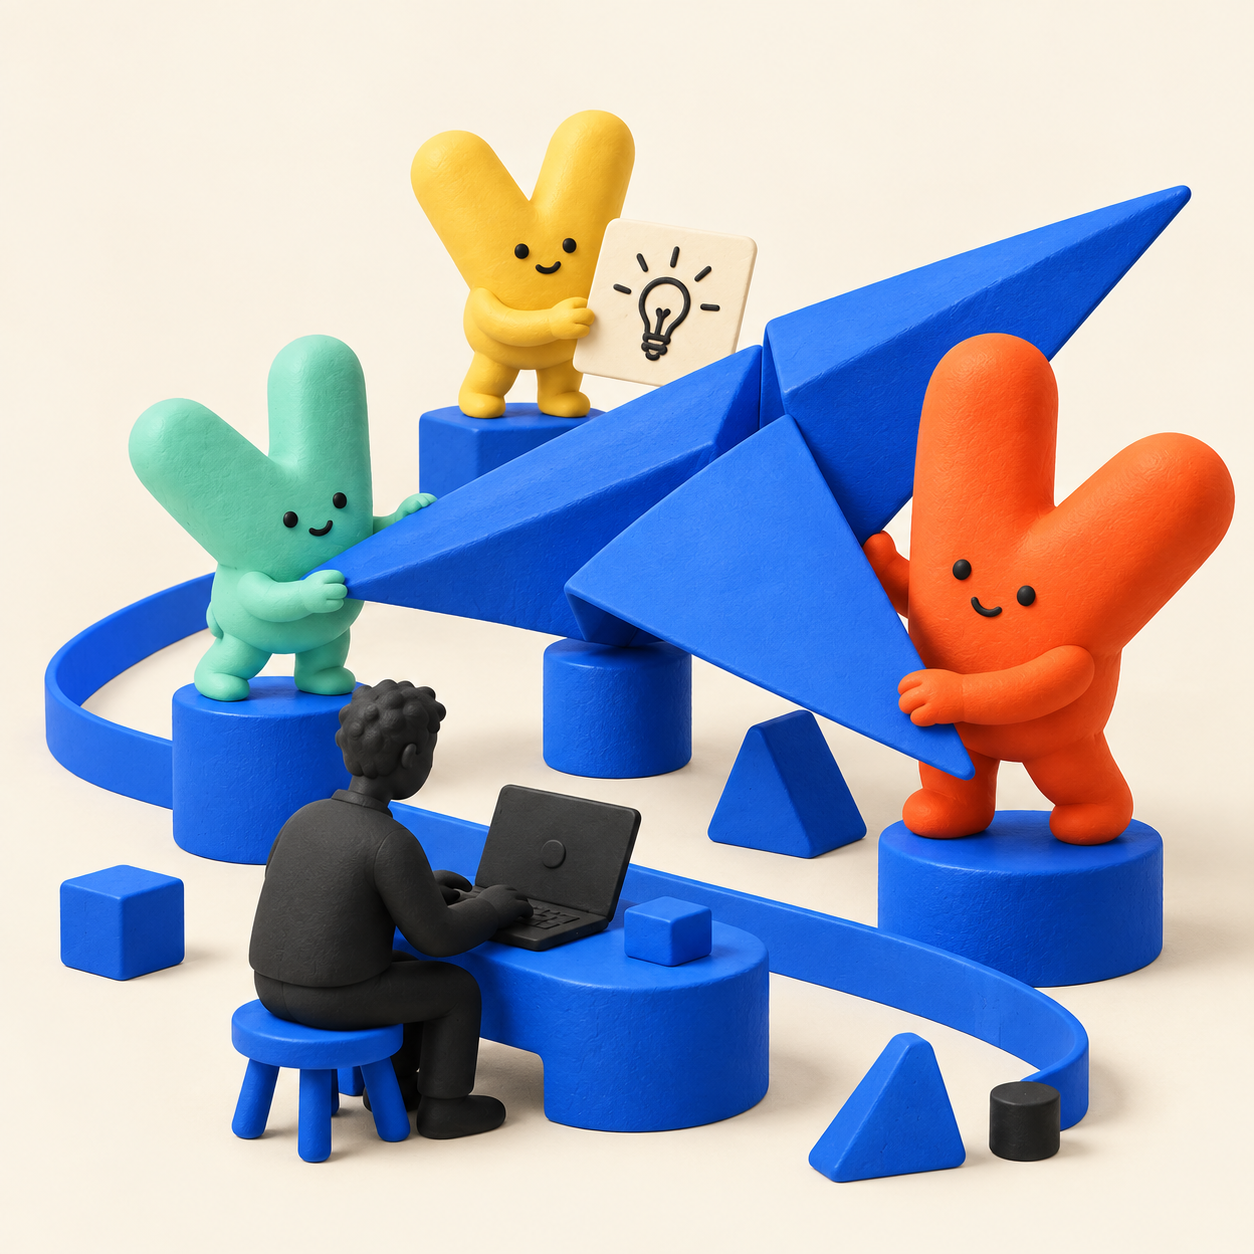
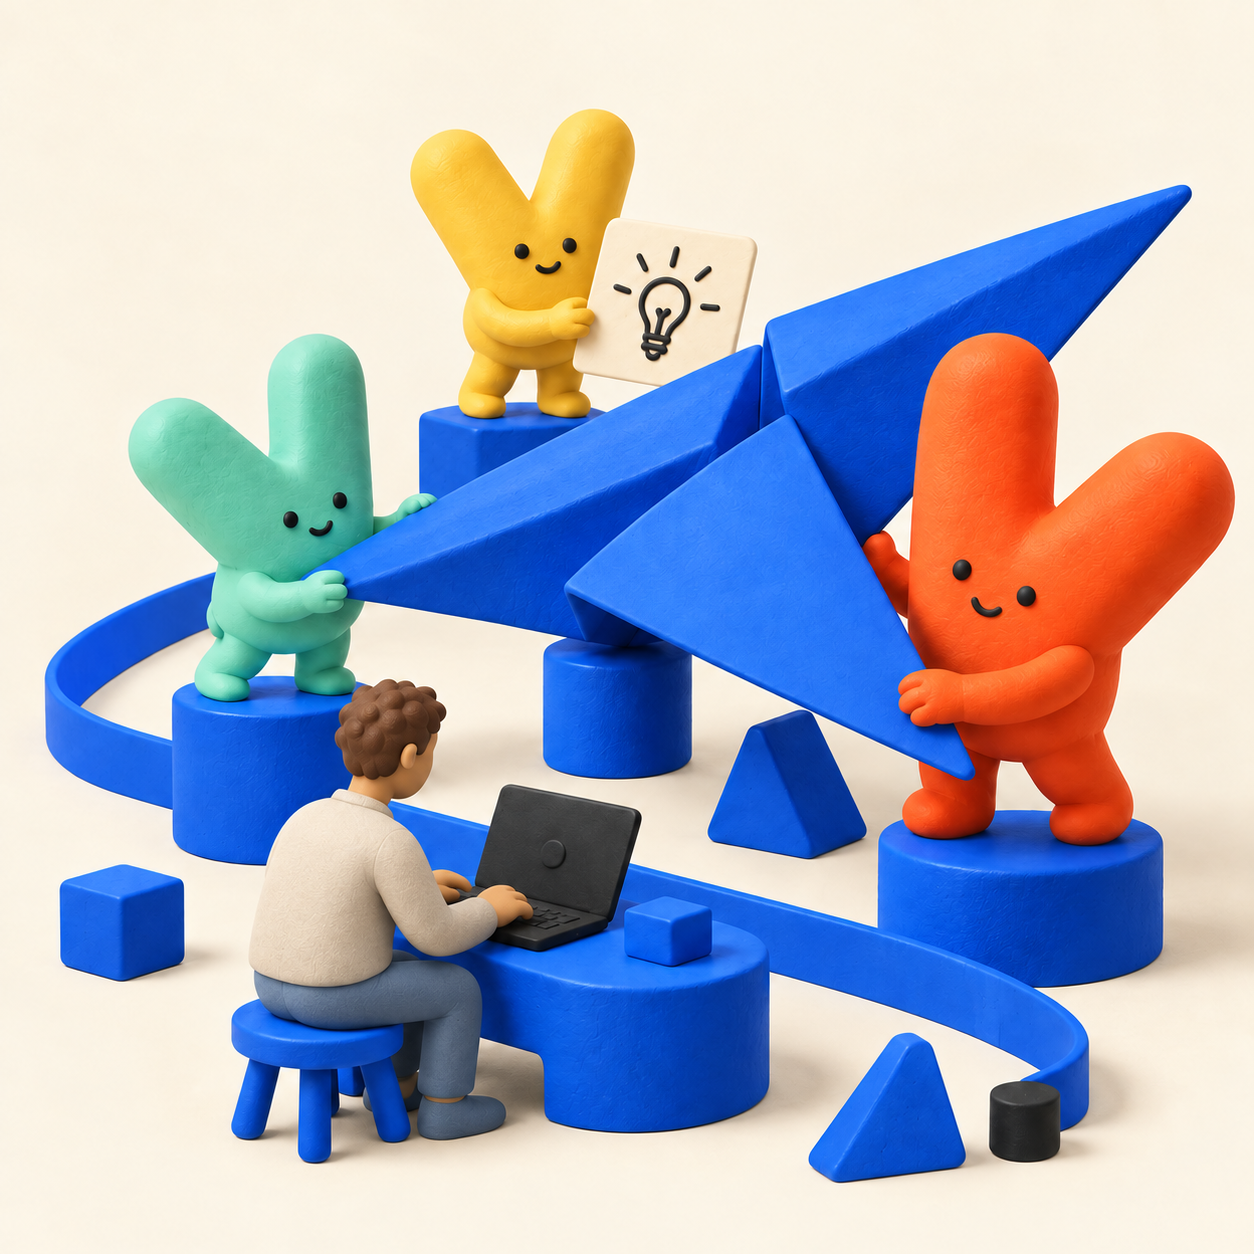
Warm the homepage human palette and add a matching social preview (#18)

Changed region(s): [[0.1866, 0.5287, 0.4354, 0.933]]

diff --git a/brand/homepage/living-team/README.md b/brand/homepage/living-team/README.md
@@ -1,13 +1,15 @@
 # Big ideas, in motion
 
-Two original VCM brand scenes for the creative refresh of [virtualcorporationmanager.com](https://virtualcorporationmanager.com/). They extend the approved orange, mint and butter Vic cast from the Buzz campaign into a homepage story about people and agents building together.
+VCM brand scenes and a matching social preview for the creative refresh of [virtualcorporationmanager.com](https://virtualcorporationmanager.com/). They extend the approved orange, mint and butter Vic cast from the Buzz campaign into a homepage story about people and agents building together.
 
 | Asset                                      | Scene                                                                      | Intended placement                                         |
 | ------------------------------------------ | -------------------------------------------------------------------------- | ---------------------------------------------------------- |
 | [hero-team.png](hero-team.png)             | A person and three Vic characters assemble an oversized cobalt paper plane | Homepage opening, alongside live HTML headline and actions |
 | [values-workshop.png](values-workshop.png) | The Vic team experiments with code brackets and an open toolbox            | Dark illustrated values section                            |
 
-Both are AI-generated illustrations, not screenshots or records of product activity. Current product captures and screenshot-based integration compositions remain separate. Use the complete images at their original aspect ratios; do not add text inside the artwork. Dimensions and SHA-256 hashes are recorded in [provenance.json](provenance.json).
+These are AI-generated illustrations, not screenshots or records of product activity. Current product captures and screenshot-based integration compositions remain separate. Use the complete images at their original aspect ratios; do not add text inside the artwork. Dimensions and SHA-256 hashes are recorded in [provenance.json](provenance.json).
+
+The human figure uses warm sand skin, brown hair, an oatmeal shirt and blue-gray trousers. The [social-preview.png](social-preview.png) card carries this revised palette into Open Graph and Twitter sharing. Use its actual 1734 × 907 dimensions in metadata and a new public filename when deploying to avoid stale image caches.
 
 ## Art direction
 
